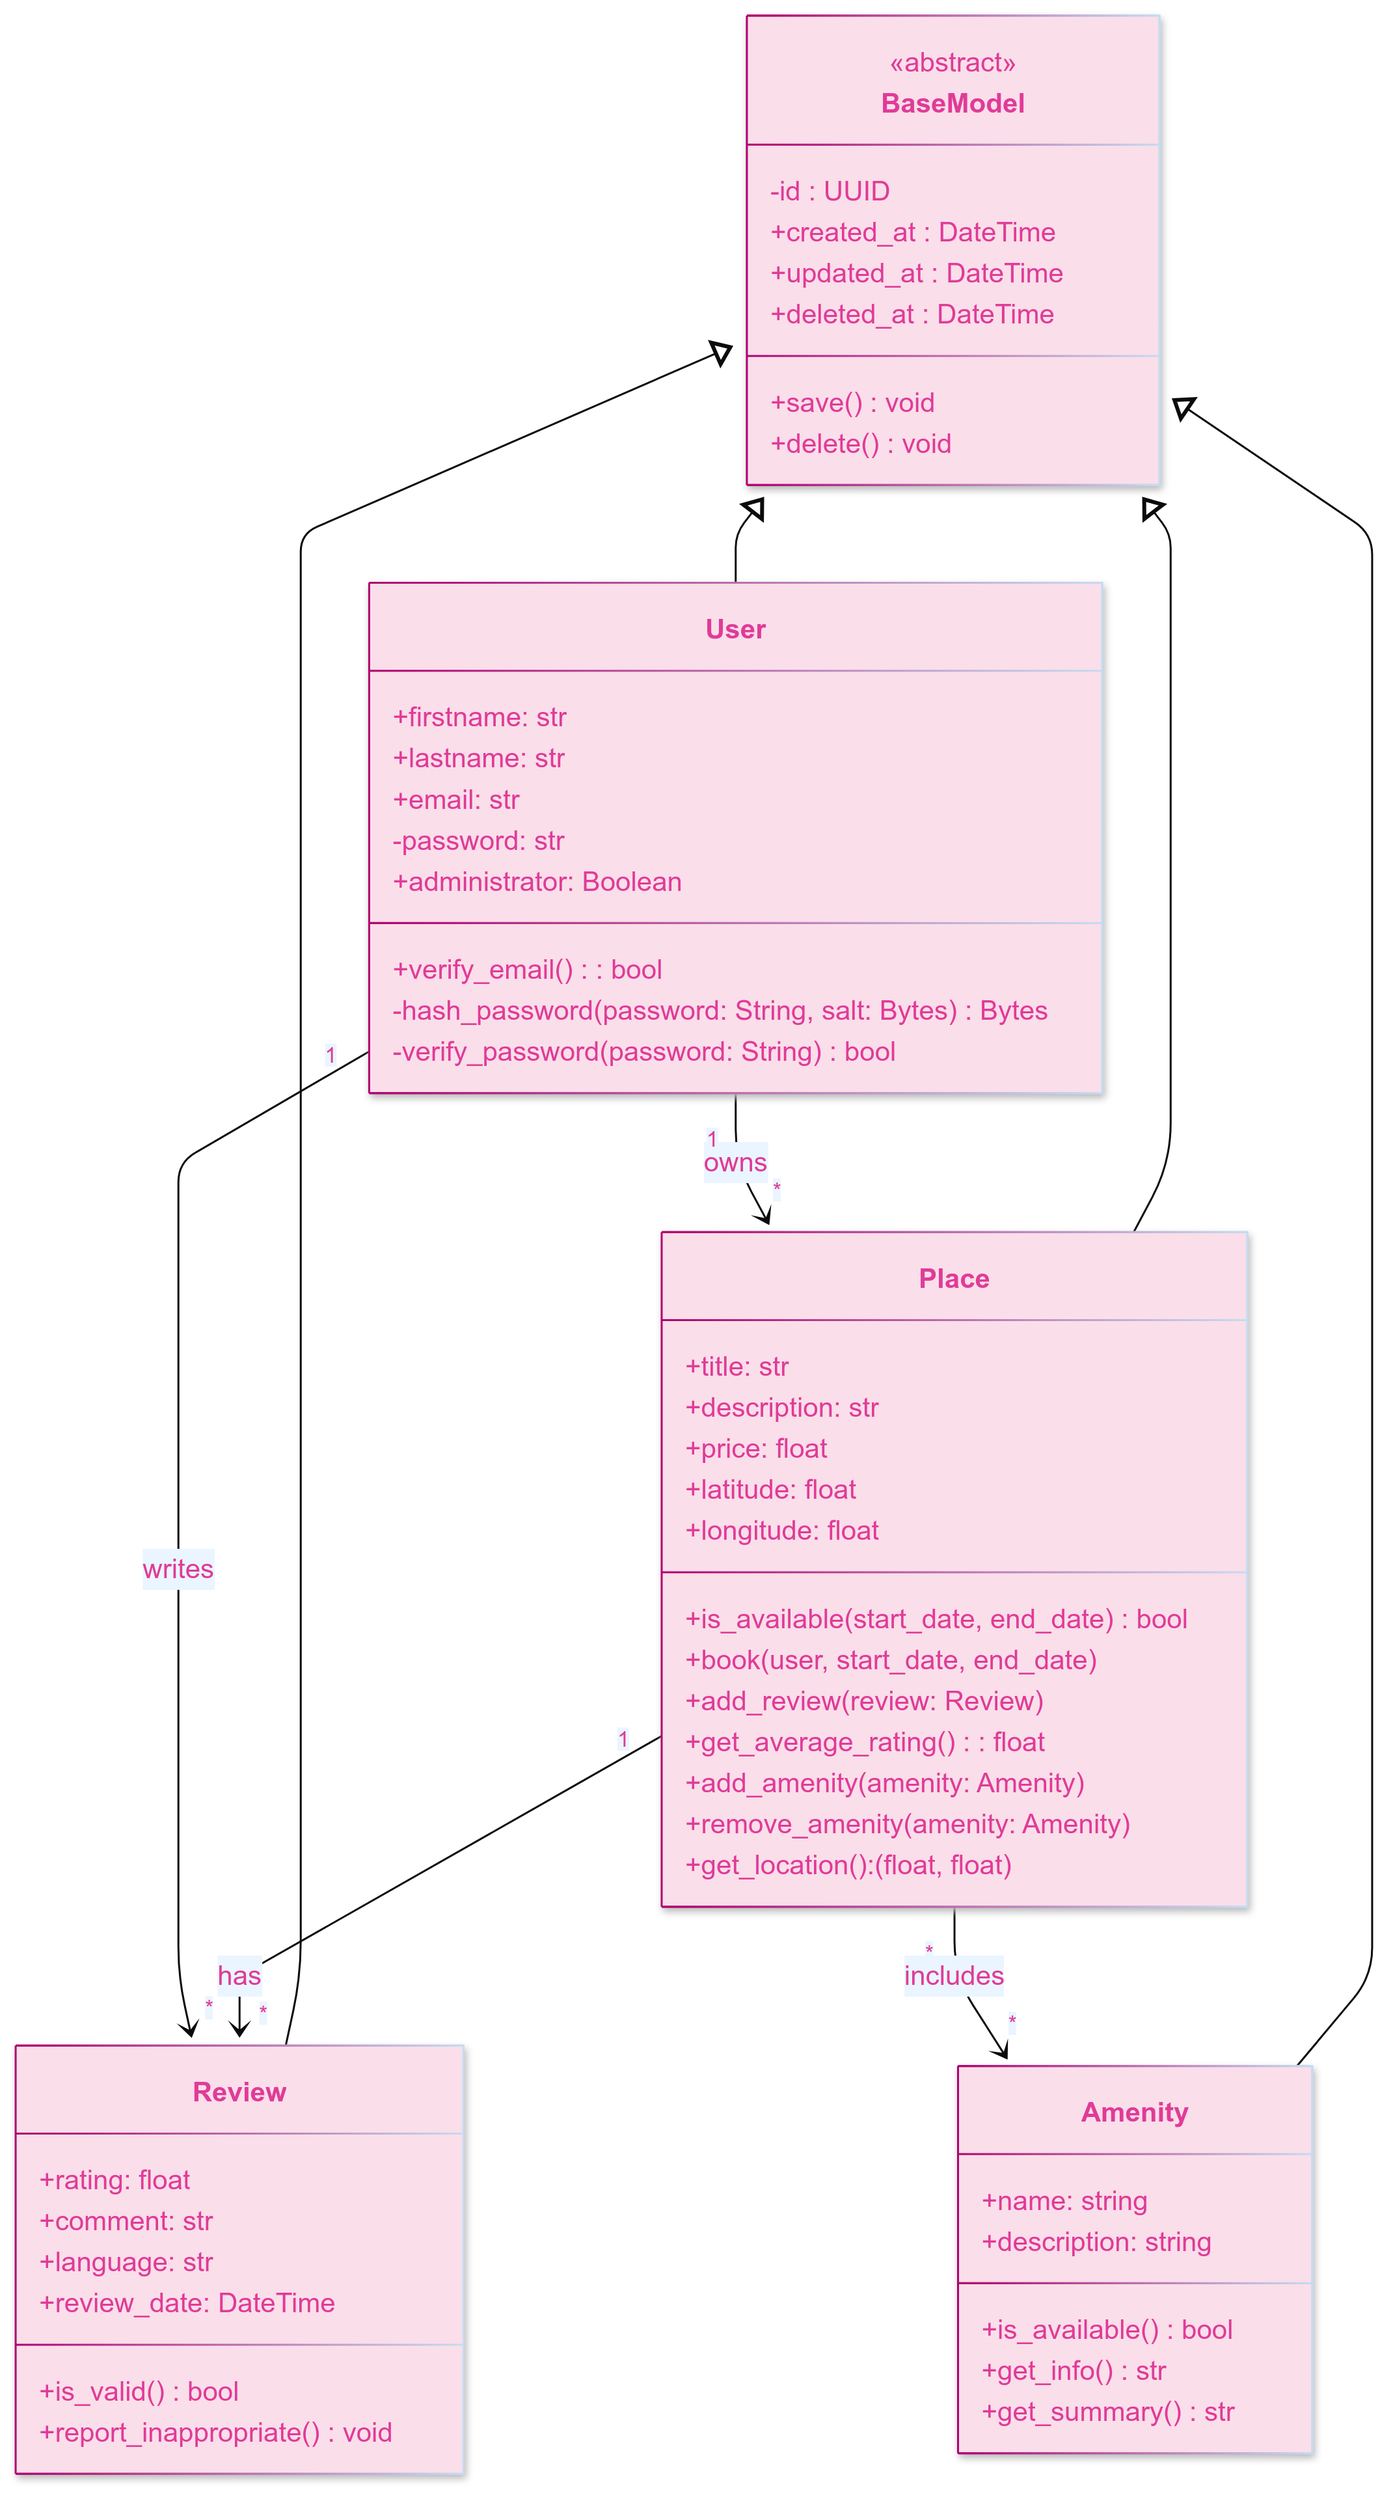
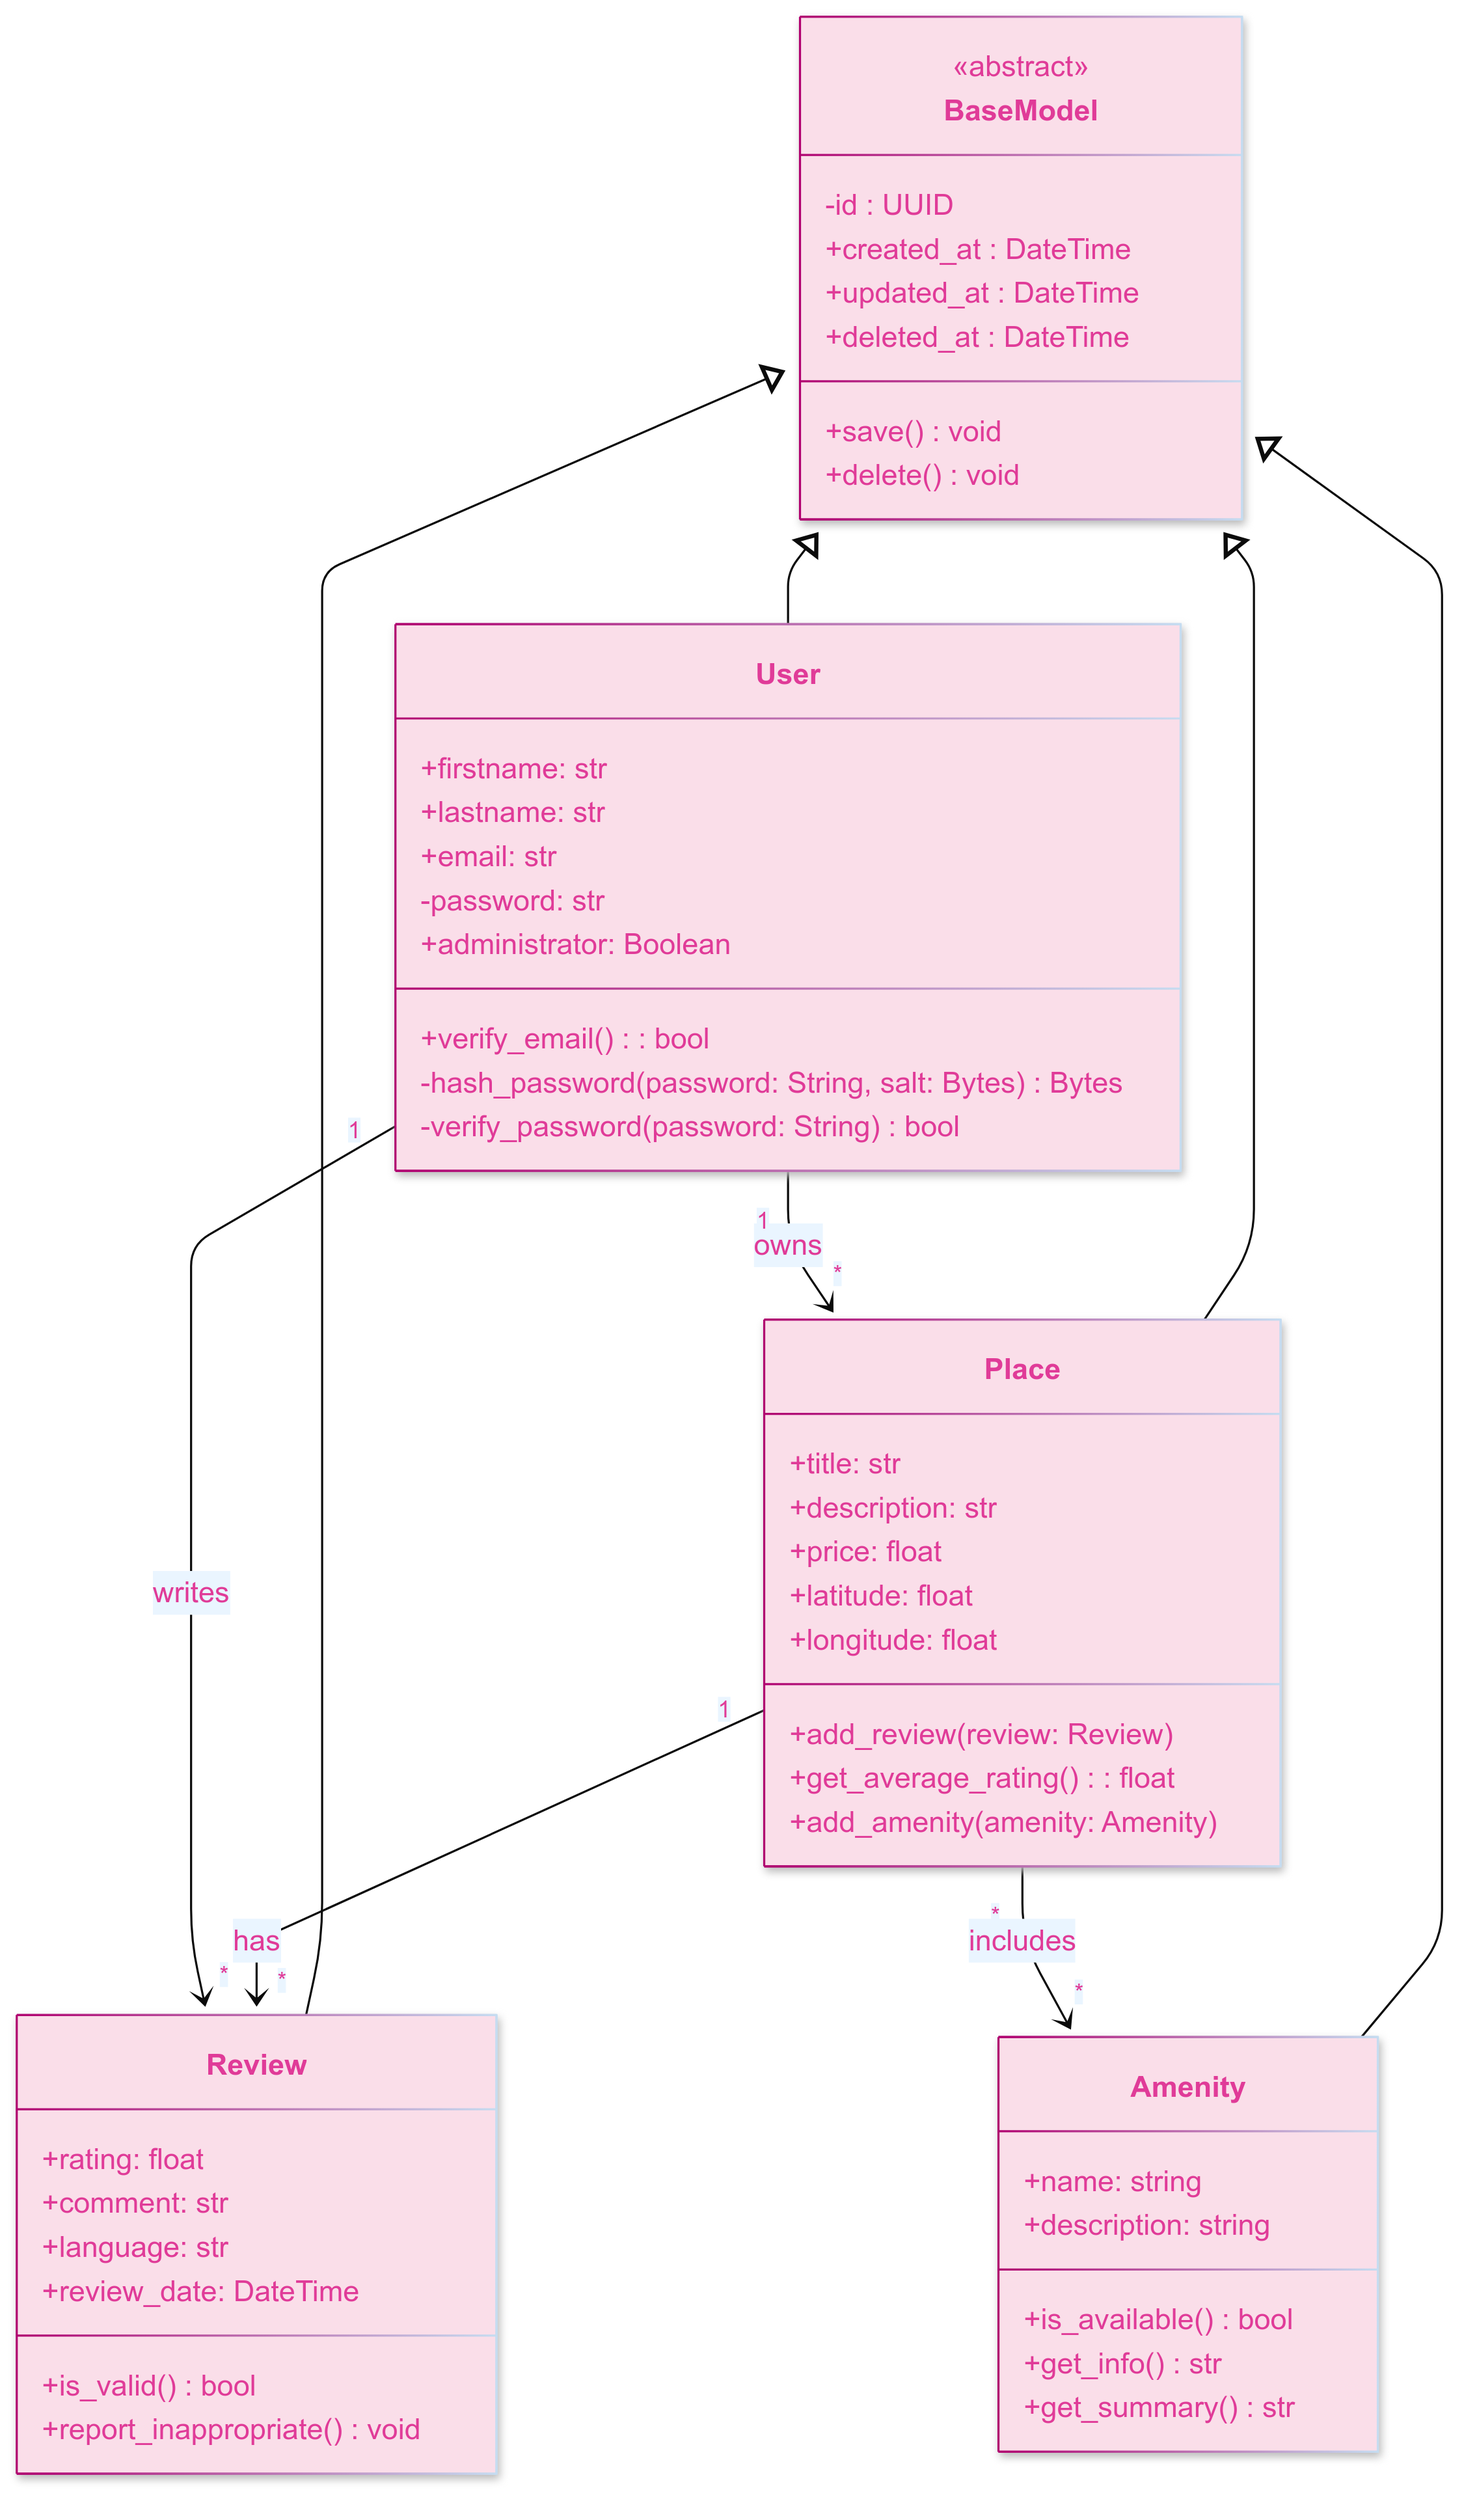
docs(HBnB - UML): :construction_worker: mise à jour diagramme de class + texte du document technique

Changed region(s): [[0.2158, 0.0, 0.9556, 1.0], [0.0, 0.5, 0.3699, 1.0], [0.9556, 0.7812, 0.9865, 0.8125]]

diff --git a/Part 1/Technical_Document.md b/Part 1/Technical_Document.md
@@ -4,8 +4,8 @@
 
 This document is a compilation of the 3 types of diagrams asked at the beginning of a project
 
-1 - [High-Level Diagrams](#high-level-architecture)
-2 - [Business Logic Layer](#business-logic-layer)
+1 - [High-Level Diagrams](#high-level-architecture)\
+2 - [Business Logic Layer](#business-logic-layer)\
 3 - [API Interaction Flow](#api-interaction-flow)
 
 ## High-Level Architecture
@@ -16,7 +16,7 @@ This diagram provide a conceptual overview of how the different components of th
 This high-level package diagram that illustrates the three-layer architecture of the HBnB application and the communication between these layers via the facade pattern.
 Below, there are the most important point of this diagram
 
-**User**
+**User**\
 
 * He is the who have interacction with apps, like:
   * create a place
@@ -25,8 +25,8 @@ Below, there are the most important point of this diagram
 * He send request tothe app HBnB.
 * He can be an administrator ot not.
 
-**Presentation Layer**
-This layer contain 2 items
+**Presentation Layer**\
+This layer contain 2 items\
 ***API***
 
 * Receive request from user
@@ -59,26 +59,105 @@ This layer contain 2 items
 
 ## Business Logic Layer
 
-Objective : Design a detailed class diagram for the Business Logic layer of the HBnB application. This diagram will depict the entities within this layer, their attributes, methods, and the relationships between them. The primary goal is to provide a clear and detailed visual representation of the core business logic, focusing on the key entities: User, Place, Review, and Amenity.
-
 <p align="center"><img src="https://github.com/CecileLAROCHE/holbertonschool-hbnb/blob/main/Part%201/Diagram%20pictures/Class%20Diagram.png?raw=true" alt="Class-diagram" width="500"><!-- markdownlint-disable-line MD033 --></p>
+
+This diagram depict the entities within this layer, their attributes, methods, and the relationships between them. The goal is to provide a clear and detailed visual representation of the core business logic, focusing on the key entities: User, Place, Review, and Amenity.
+
+**BaseModel**
+This class is an abstract class. all the items which are in is needeed for all the others class.
+***attributes:*** id, create_at, usdate_at, delete_at
+***methods:*** save(), delete()
+
+**User**
+This class is for people, they can be owner or renter
+***attributes:*** firstname, lastname, email, password
+***methods:*** verify_email, hash_password, verify_password
+
+**Place**
+This class is for the details of the place to rent
+***attributes:*** tittle, description, price, latitude, longitude
+***methods:*** add_review, get_average, add_amenity
+
+**Amenity**
+This class is for all the amenity able for a place
+***attributes:*** name, description
+***methods:*** is_avaible, get_info, get_summarry
+
+**Review**
+This class is for the revieux of the rent
+***attributes:*** rating, comment, language, revieux_fate
+***methods:*** is_valid, reprt_innappropriate
+
+### Link
+
+* User can own many Place, but each Place has 1 owning User.
+* User can write many Review, but each Review belongs to 1 User.
+* Place can have many Review, but each Review belongs to 1 Place.
+* Place can have many Amenity, and an Amenity can be linked to many Place.
 
 ## API Interaction Flow
 
-Objective : Develop sequence diagrams for at least four different API calls to illustrate the interaction between the layers (Presentation, Business Logic, Persistence) and the flow of information within the HBnB application. The sequence diagrams will help visualize how different components of the system interact to fulfill specific use cases, showing the step-by-step process of handling API requests.
+This 4 sequence diagrams help to visualize how different components of the system interact to fulfill specific use cases, showing the step-by-step process of handling API requests.
 
 ### User Registration
 
 <p align="center"><img src="https://github.com/CecileLAROCHE/holbertonschool-hbnb/blob/main/Part%201/Diagram%20pictures/Sequence%20Diagrams_User%20Registration.png?raw=true" alt="High-Level" width="800"><!-- markdownlint-disable-line MD033 --></p>
 
+This diagram show the step the program will do to register a new user.
+
+**Steps**
+➡ API call
+↩ return if unvalid data
+  ➡ process request
+    ➡ Save data
+    🔙 confirm save
+  🔙 return response
+🔙 return success
+
 ### Place Creation
 
 <p align="center"><img src="https://github.com/CecileLAROCHE/holbertonschool-hbnb/blob/main/Part%201/Diagram%20pictures/Sequence%20Diagrams_Place%20Creation.png?raw=true" alt="High-Level" width="800"><!-- markdownlint-disable-line MD033 --></p>
+
+This diagram show the step the program will do to create a new Plave.
+
+**Steps**
+➡ forme registration
+↩ return if unvalid data
+  ➡ Create place
+  ↩ Return error
+    ➡ Save place
+    🔙 Place saved
+  🔙 return
+🔙 return create
 
 ### Review Submission
 
 <p align="center"><img src="https://github.com/CecileLAROCHE/holbertonschool-hbnb/blob/main/Part%201/Diagram%20pictures/Sequence%20Diagrams_Review%20Submission.png?raw=true" alt="High-Level" width="800"><!-- markdownlint-disable-line MD033 --></p>
 
+This diagram show the step the program will do to submit a new review.
+
+**Steps**
+➡ forme registration
+↩ return if unvalid data
+  ➡ Create review
+  ↩ Return error
+    ➡ Save revieux
+    🔙 Review saved
+  🔙 return
+🔙 return create
+
 ## Fetching a List of Places
 
 <p align="center"><img src="https://github.com/CecileLAROCHE/holbertonschool-hbnb/blob/main/Part%201/Diagram%20pictures/Sequence%20Diagrams_Fetching%20a%20List%20of%20Places%20diagram.png?raw=true" alt="High-Level" width="800"><!-- markdownlint-disable-line MD033 --></p>
+
+This diagram show the step the program will do to fetching a List of Places.
+
+**Steps**
+➡ Filter
+↩ return if bad request
+  ➡ validate filter
+  ↩ unvalidate filter
+    ➡ select place
+    🔙 list
+  🔙 return list
+🔙 return list
